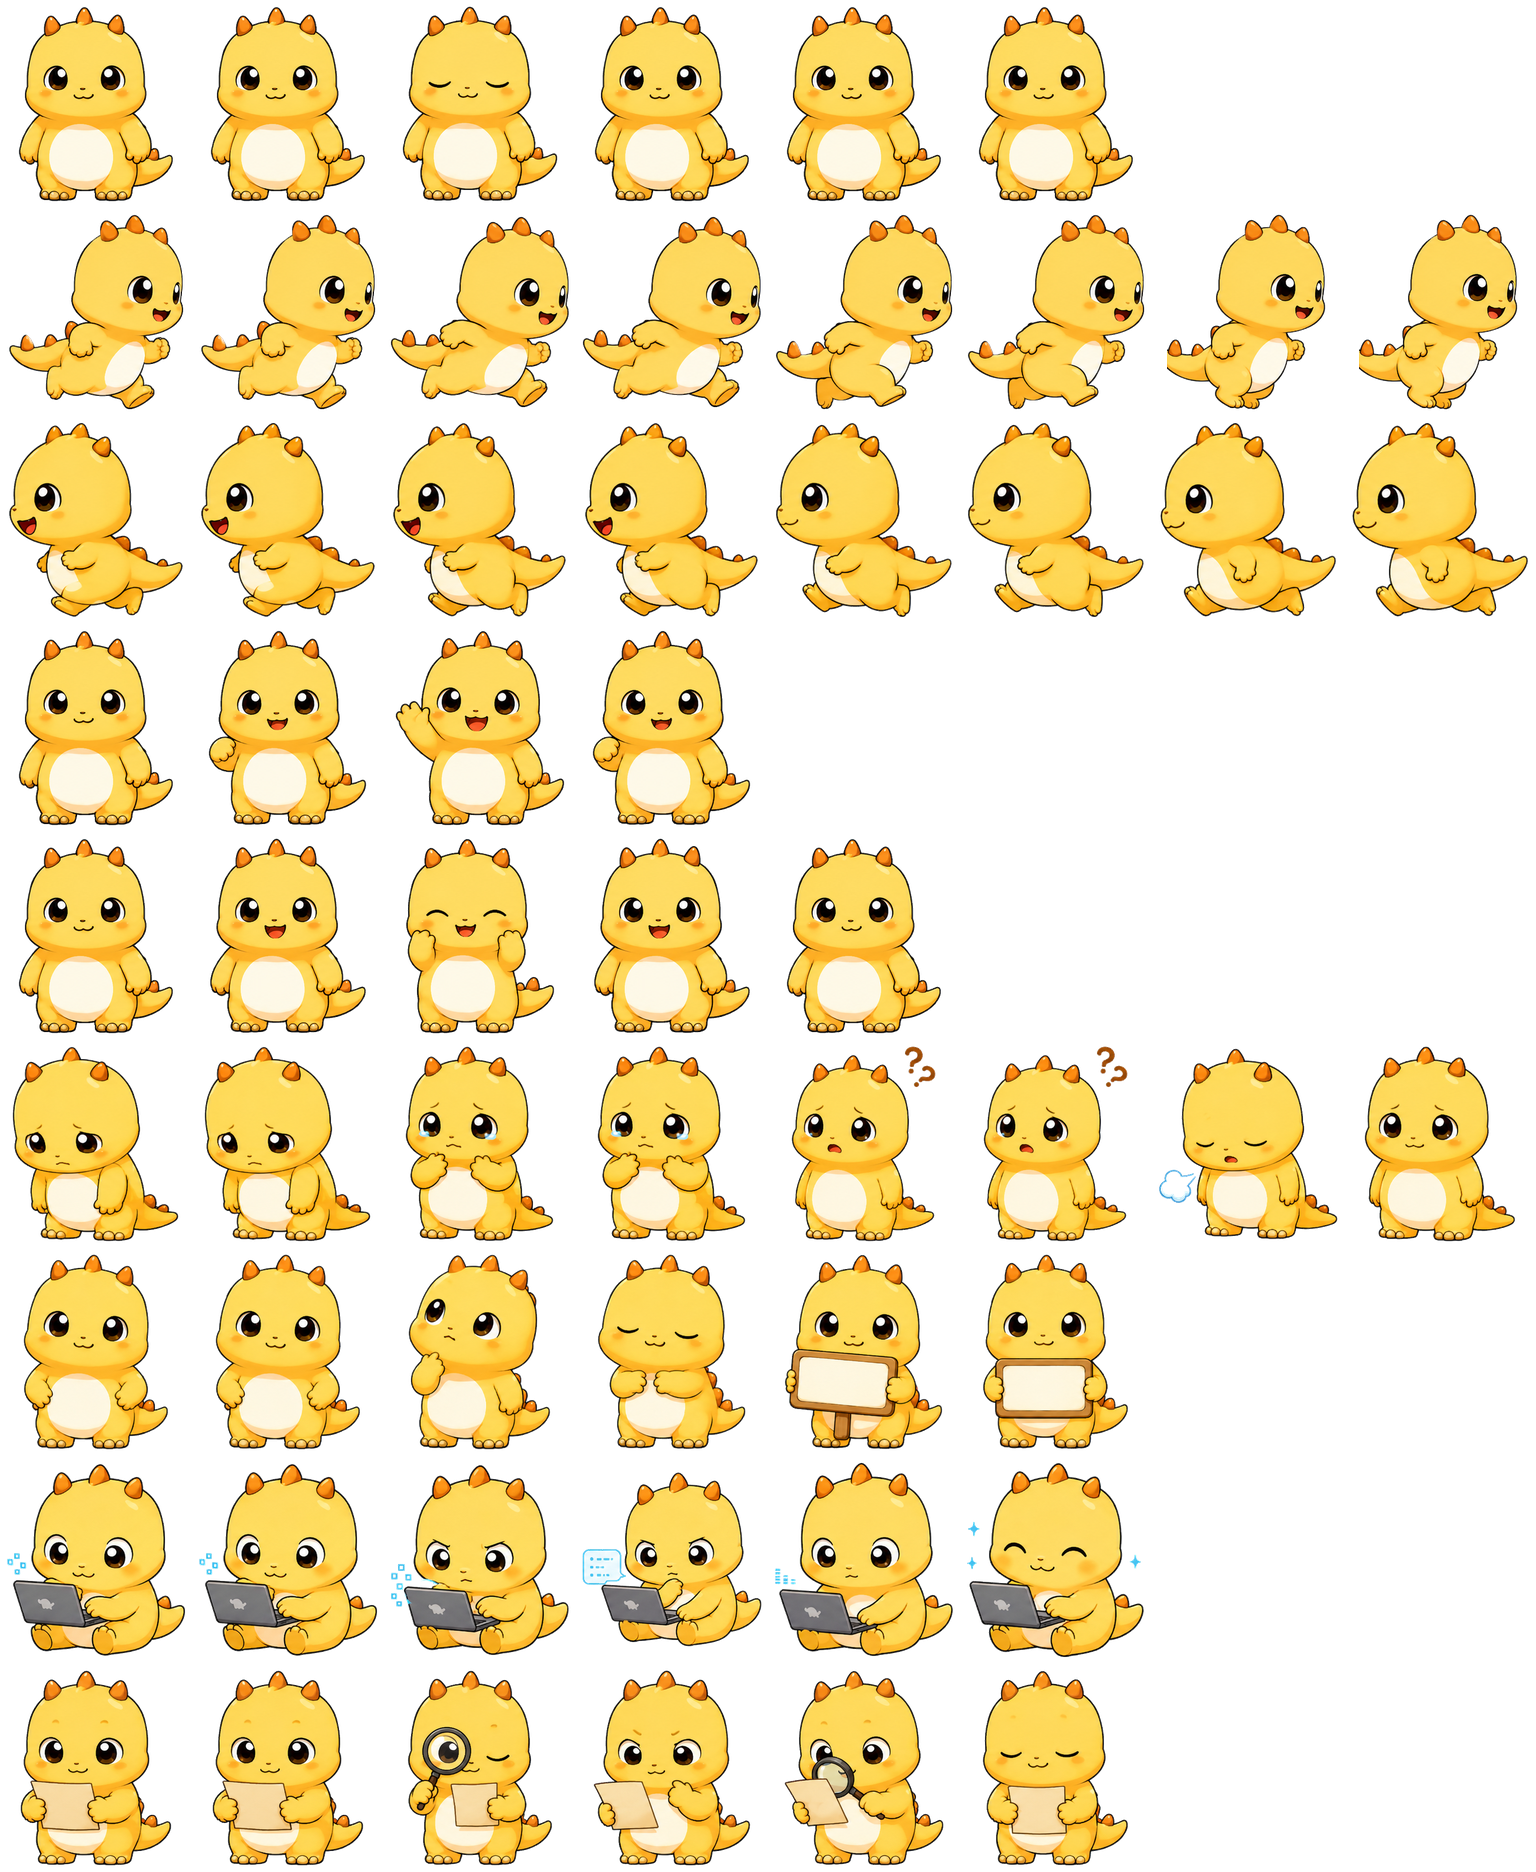
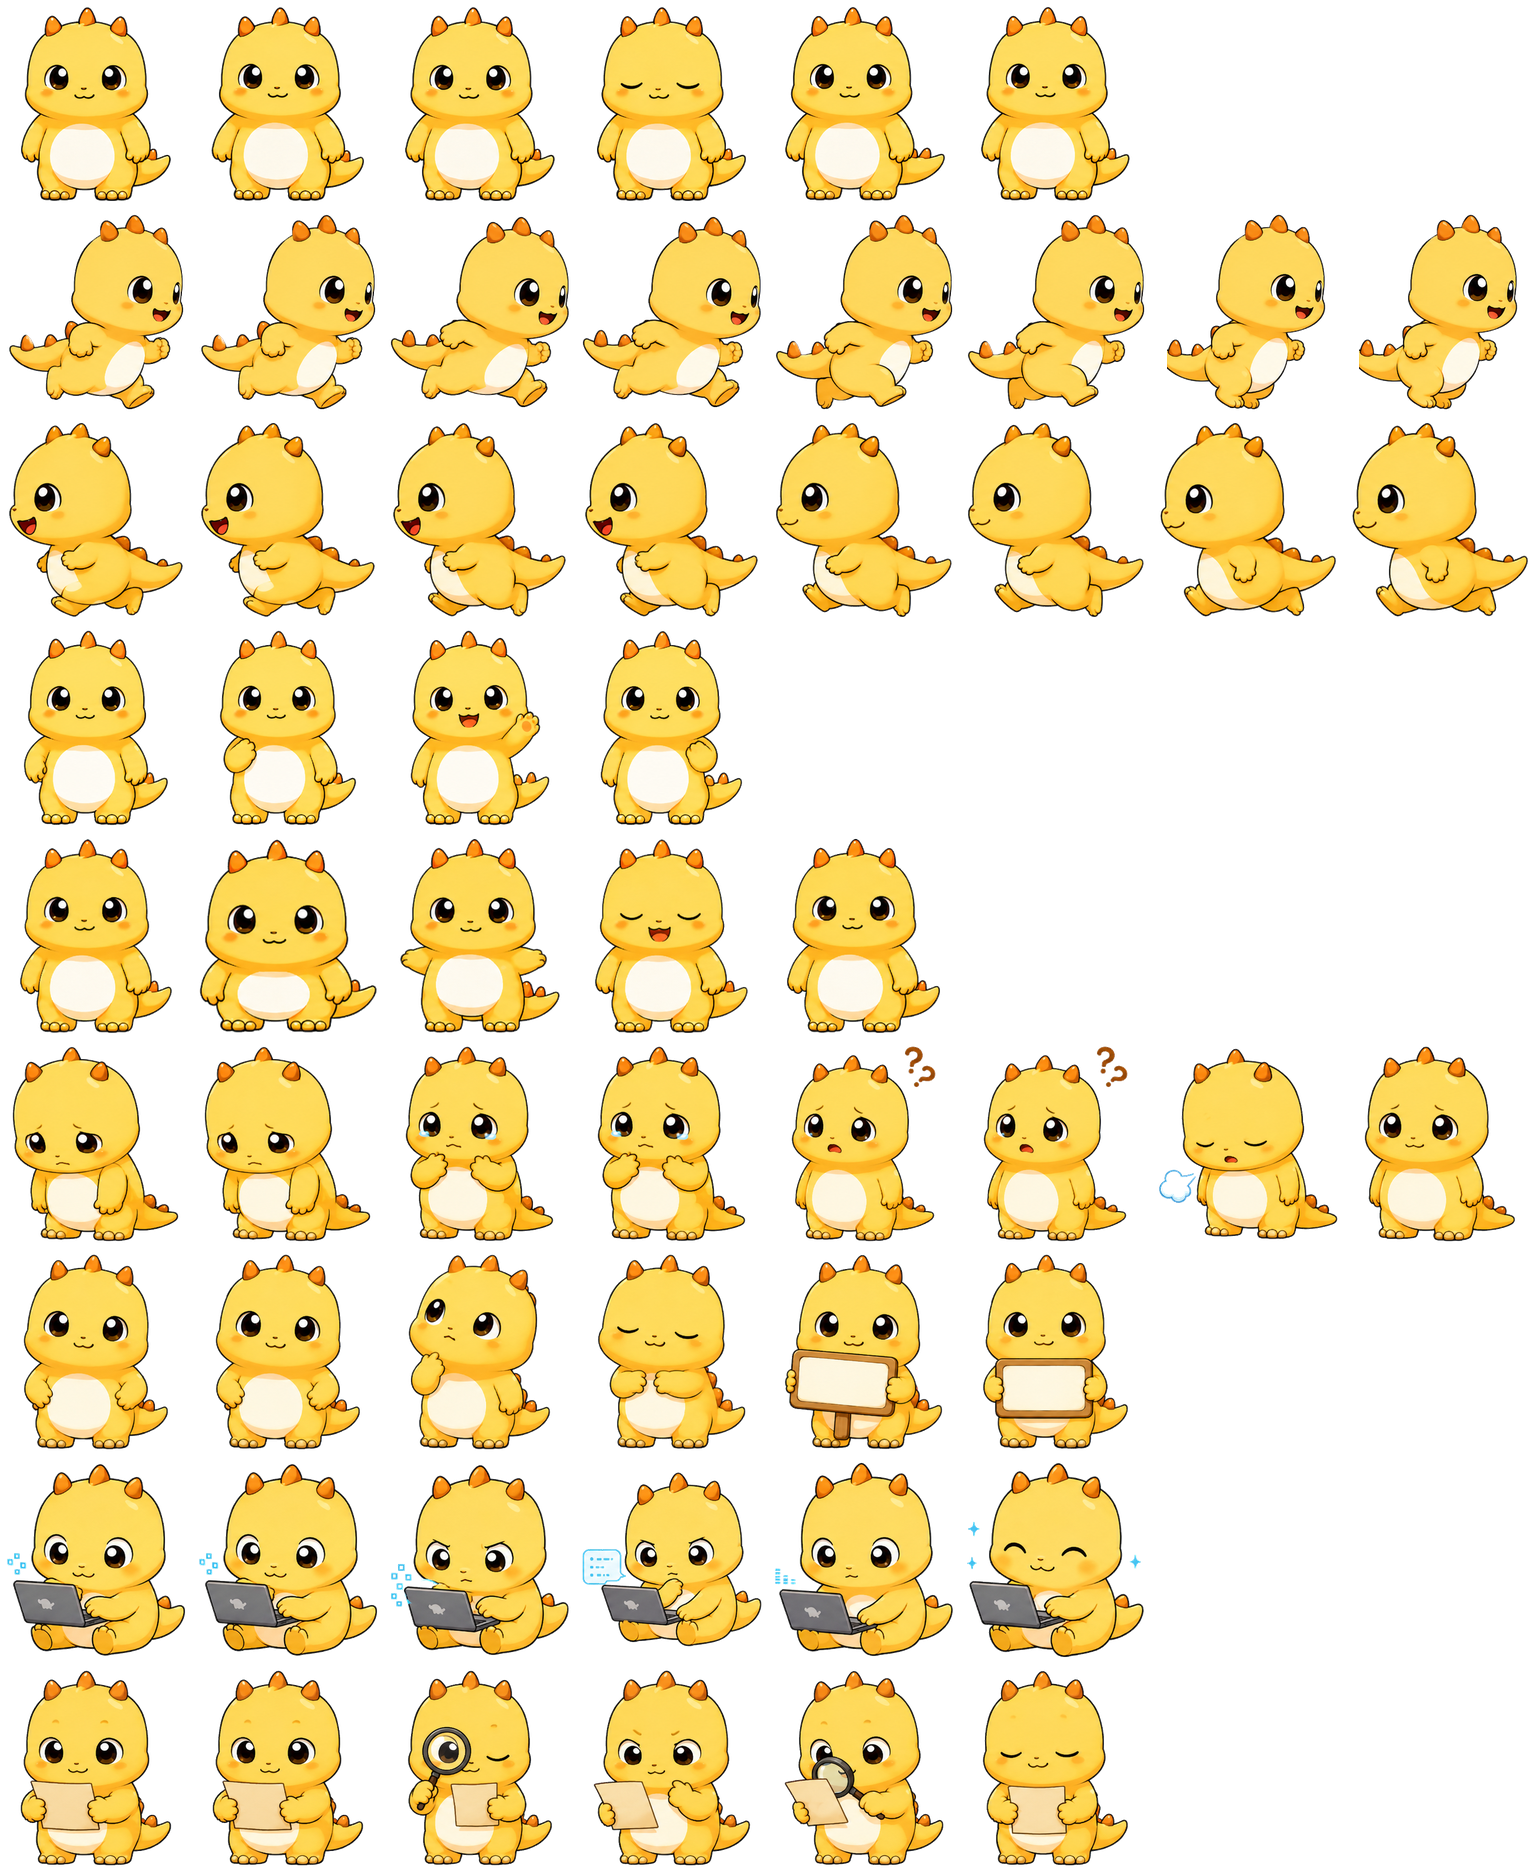
Release v1.1.0 pet animation update

diff --git a/RELEASE_NOTES.md b/RELEASE_NOTES.md
@@ -1,11 +1,12 @@
-# v1.0.0
+# v1.1.0
 
-首个公开版本。
+体验优化版本。
 
-- 添加奶小龙 Codex 自定义宠物。
-- 包含 PowerShell 一键安装脚本。
+- 重做 `idle` 待机动作，使用专门生成的待机帧。
+- 重做 `wave` 鼠标滑过/打招呼反馈。
+- 重做 `jump` 唤醒/开心反馈。
+- 保留 `running`、`waiting`、`review`、`failed` 等已有状态。
 - 支持 npm / npx 安装：`npx nai-xiaolong-codex-pet install`。
-- 包含保守卸载脚本，卸载时保留备份。
 - 图集格式：`1536x1872`，`8x9`，单格 `192x208`。
 
 推荐安装方式：

diff --git a/README.md b/README.md
@@ -46,6 +46,11 @@ Settings -> Appearance -> Pets -> Refresh -> Select 奶小龙 -> Wake Pet
 
 下载新版 Release，重新运行 `install.ps1` 即可。脚本会在覆盖前保留旧版本备份。
 
+## 版本
+
+- `v1.1.0`：重做 idle / wave / jump，待机更自然，鼠标滑过反馈更明确。
+- `v1.0.0`：首个公开版本。
+
 ## 卸载
 
 如果是用 npx 安装的，可以运行：
